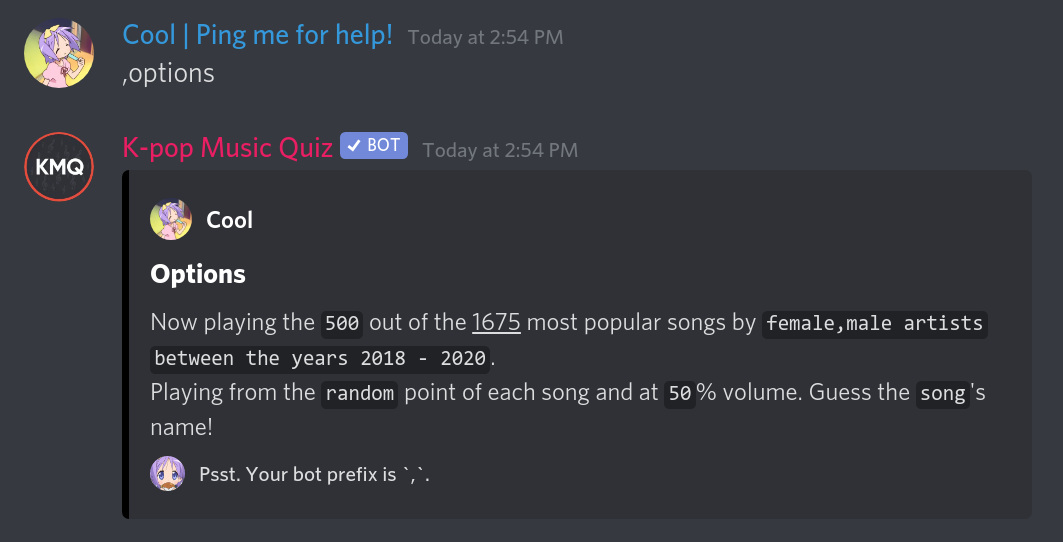
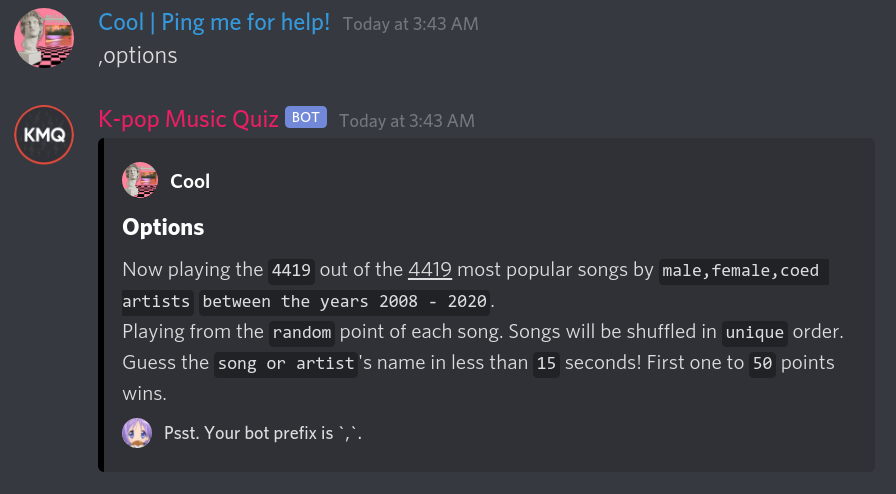
Add ,shuffle documentation, moved some stuff [#351]

Changed region(s): [[0.0, 0.2126, 0.9375, 0.9717], [0.0, 0.0, 0.5312, 0.1822]]

diff --git a/GAMEPLAY.md b/GAMEPLAY.md
@@ -54,12 +54,15 @@ Setting the goal ends the game when the given goal score is reached. For example
 
 ![goal](/images/goal.png)
 
-### ,forceskip
-To skip the voting process of `,skip` (no pun intended), the player that started the game by typing `,play` can go to the next song with `,forceskip`. This command is helpful when it's hard to get a skip majority (typically in larger games). We trust you, the game owner, to play the best songs possible. No pressure.
-
 ## ,timer [time (seconds)]
 Setting a timer limits players to guess in under `time` seconds before the round ends automatically. Once a user gives a valid timeout, such as `,timer 10`, the timer will automatically start at the beginning of every round. If no one guesses right in the time allotted (in this example, 10 seconds), the round is over. **Typing** `,timer` **disables the timer**. Set the timer under 10 (5? 3?) seconds and face off with your friends to see who the ultimate KMQ champ is! Alternatively, set it above 30 seconds, and enjoy a variety of your favorite artists while expanding your music library.
 
+![timer](/images/timer.png)
+
+## ,shuffle [random|unique]
+Setting the shuffle mode to unique limits each random song chosen to appear at most once per game. Conversely, `,shuffle random` picks a song at random from the given options every round, so songs may play multiple times in a game. To limit instances where songs would randomly (with a low statistical probability) play multiple times back-to-back, no song will repeat in the span of 10 songs using `,shuffle random`.
+
+![shuffle](/images/shuffle.png)
 
 # Full Command List
 Use `,help [command_name]` for more details for any of the following commands.
@@ -70,6 +73,7 @@ Use `,help [command_name]` for more details for any of the following commands.
 - `,options`: Shows the current game options, which filters the songs that will be played
 - `,help`: Shows a general overview of available commands, as well as specific instructions for each command
 - `,news`: Show the latest features/changes to the bot
+- `,forceskip`: The person that started the game can force-skip the current song, no majority necessary
 
 ## Game Option Commands 
 - `,cutoff`: Set a cutoff year for songs. Only songs released during and after the cutoff year will be chosen
@@ -79,5 +83,5 @@ Use `,help [command_name]` for more details for any of the following commands.
 - `,groups`: Specify what groups/artists you'd like to hear from
 - `,mode`: Choose whether to guess based on song name or artist name
 - `,goal`: Specify a number of points to be reached before a winner is selected, and the game ends 
-- `,forceskip`: The person that started the game can force-skip the current song, no majority necessary
 - `,timer`: Try your best to guess correctly before the timer runs out! Enter a time in seconds, or give no arguments to disable
+- `,shuffle`: Choose whether songs should play in "true" random order or in uniquely random order.
